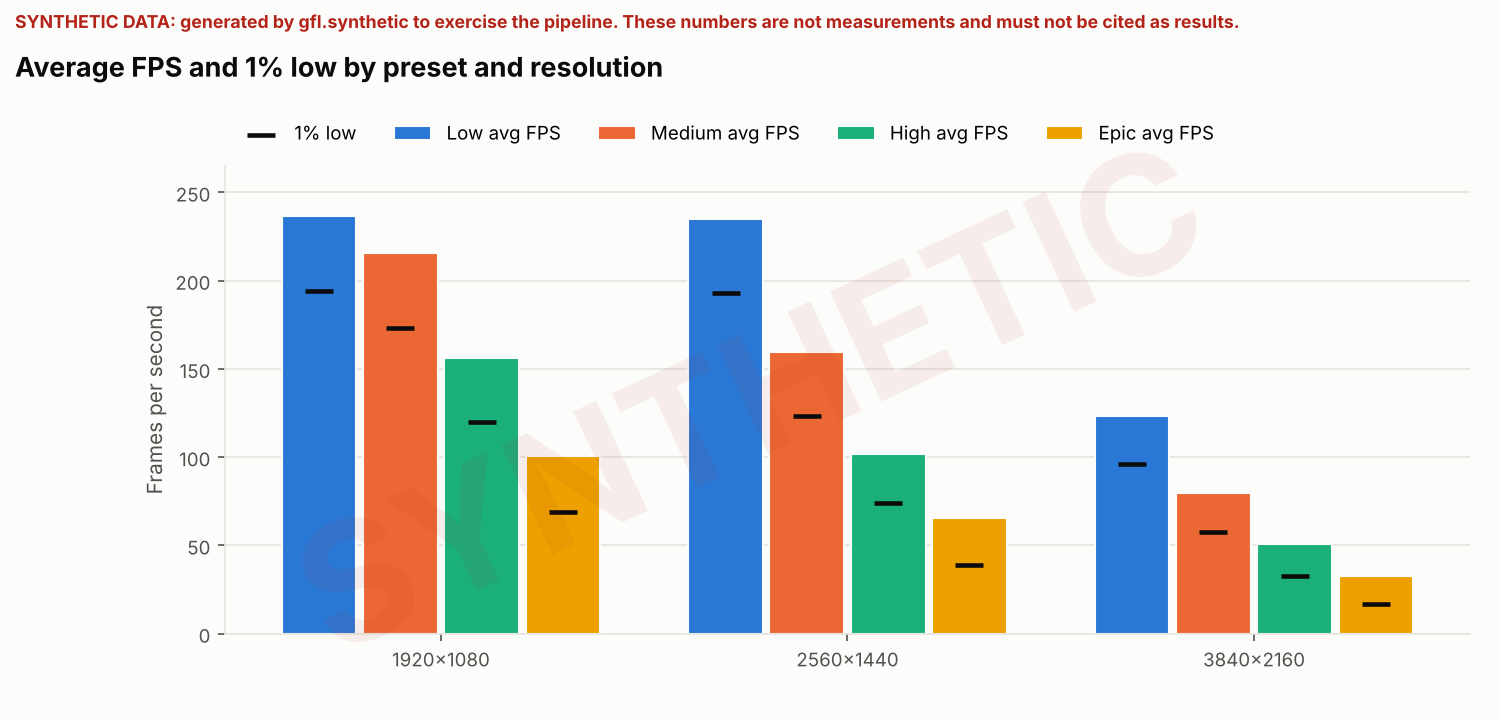
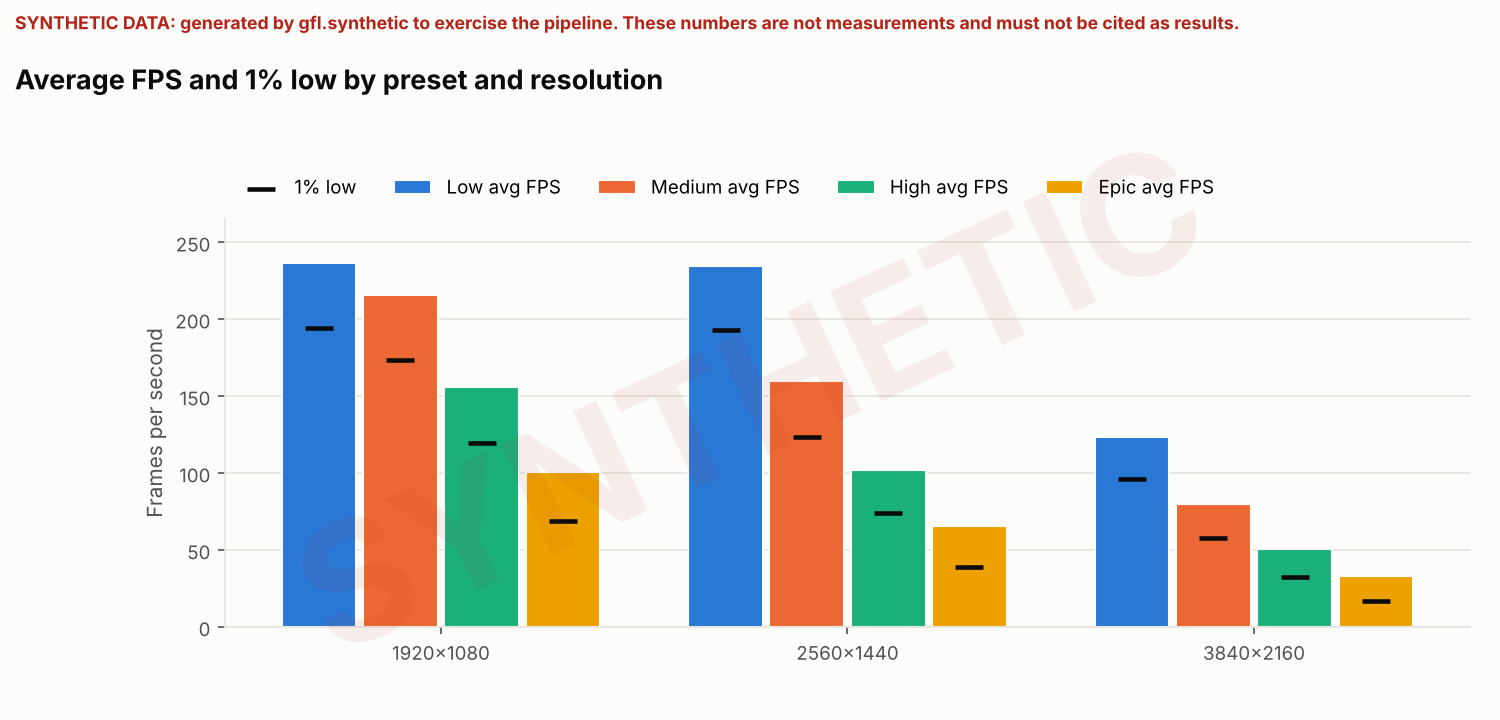
Add gflbench log parser and GPU-time-by-pass analysis and chart
Charts now use margins fixed in inches so short and tall figures lay out
the same way.

Claude-Session: https://claude.ai/code/session_01LpnvNtyLDWCQJDicQHDD6d

diff --git a/gfl/analyze.py b/gfl/analyze.py
@@ -11,7 +11,7 @@ from gfl import manifest as mf
 from gfl import plots
 from gfl.config import PRESET_LEVELS, Resolution
 from gfl.metrics import compute_run_metrics, summarize_runs, trim_window
-from gfl.parse import load_gpu_telemetry_csv, load_presentmon_csv
+from gfl.parse import load_gflbench_csv, load_gpu_telemetry_csv, load_presentmon_csv
 from gfl.tables import markdown_table
 
 CONFIG_KEYS = [
@@ -45,16 +45,35 @@ def default_out_dir(manifest: pd.DataFrame) -> Path:
     return Path("results") / ("synthetic" if synthetic else "") / experiment
 
 
-def load_run_frames(run_dir: Path, row: pd.Series) -> tuple[pd.DataFrame, pd.DataFrame | None]:
-    """Parse and trim one run's PresentMon log and (optional) telemetry log."""
-    frames = load_presentmon_csv(mf.resolve(run_dir, row["presentmon_csv"]))
-    frames = trim_window(frames, row["warmup_s"], row["duration_s"])
+@dataclass
+class RunData:
+    frames: pd.DataFrame                  # trimmed canonical frame table
+    telemetry: pd.DataFrame | None        # trimmed memory / utilization samples
+    passes: pd.DataFrame | None           # trimmed per-pass GPU ms (gflbench only)
 
+
+def load_run(run_dir: Path, row: pd.Series) -> RunData:
+    """Parse one run's logs and trim them all to the same measured window."""
+    window = (row["warmup_s"], row["duration_s"])
+    frames_path = mf.resolve(run_dir, row["frames_csv"])
+    if row["capture_tool"] == "gflbench":
+        log = load_gflbench_csv(frames_path)
+        return RunData(trim_window(log.frames, *window),
+                       trim_window(log.memory, *window) if not log.memory.empty else None,
+                       trim_window(log.passes, *window))
+
+    frames = trim_window(load_presentmon_csv(frames_path), *window)
     telemetry = None
     tel_path = mf.resolve(run_dir, row["telemetry_csv"])
     if tel_path is not None:
-        telemetry = trim_window(load_gpu_telemetry_csv(tel_path), row["warmup_s"], row["duration_s"])
-    return frames, telemetry
+        telemetry = trim_window(load_gpu_telemetry_csv(tel_path), *window)
+    return RunData(frames, telemetry, None)
+
+
+def pass_means(passes: pd.DataFrame) -> dict[str, float]:
+    """Mean GPU ms per frame for each render pass: where the GPU time goes."""
+    return {f"pass_{name}_ms": float(passes[name].mean())
+            for name in passes.columns if name != "time_s"}
 
 
 def analyze(run_dir: str | Path, out_dir: str | Path | None = None,
@@ -71,19 +90,23 @@ def analyze(run_dir: str | Path, out_dir: str | Path | None = None,
     # 1. Per-run metrics. Keep run 1's trimmed frames for the trace chart.
     per_run_rows, traces = [], {}
     for _, row in manifest.iterrows():
-        frames, telemetry = load_run_frames(run_dir, row)
-        metrics = compute_run_metrics(frames, telemetry)
-        per_run_rows.append({**row[CONFIG_KEYS + ["run_id", "run_index"]].to_dict(),
-                             **metrics.as_dict()})
+        data = load_run(run_dir, row)
+        metrics = compute_run_metrics(data.frames, data.telemetry)
+        per_run_rows.append({**row[CONFIG_KEYS + ["run_id", "run_index", "capture_tool"]].to_dict(),
+                             **metrics.as_dict(),
+                             **(pass_means(data.passes) if data.passes is not None else {})})
         if row["run_index"] == 1:
-            traces[row["config_id"]] = frames
+            traces[row["config_id"]] = data.frames
     per_run = _sort_configs(pd.DataFrame(per_run_rows))
     per_run["data_kind"] = data_kind
 
     # 2. One summary row per config (mean across runs + run-to-run spread).
+    pass_cols = [c for c in per_run.columns if c.startswith("pass_") and c.endswith("_ms")]
     summary_rows = []
     for _, group in per_run.groupby("config_id", sort=False):
-        summary_rows.append({**group.iloc[0][CONFIG_KEYS].to_dict(), **summarize_runs(group)})
+        summary_rows.append({**group.iloc[0][CONFIG_KEYS + ["capture_tool"]].to_dict(),
+                             **summarize_runs(group),
+                             **{c: float(group[c].mean()) for c in pass_cols}})
     summary = _sort_configs(pd.DataFrame(summary_rows))
     summary["data_kind"] = data_kind
 
@@ -116,6 +139,12 @@ def analyze(run_dir: str | Path, out_dir: str | Path | None = None,
         path=out_dir / f"{prefix}fps_by_preset_and_resolution.png",
         banner=banner,
     ))
+    if pass_cols:
+        result.outputs.append(plots.gpu_time_by_pass(
+            summary, pass_cols,
+            path=out_dir / f"{prefix}gpu_time_by_pass.png",
+            banner=banner,
+        ))
     return result
 
 
@@ -141,6 +170,10 @@ def summary_display_table(summary: pd.DataFrame) -> pd.DataFrame:
         table[col] = table[col].map(lambda v, d=digits: "n/a" if pd.isna(v) else f"{v:.{d}f}")
     flagged = summary["low_01pct_low_confidence"].to_numpy()
     table.loc[flagged, "0.1% low"] = table.loc[flagged, "0.1% low"] + "*"
+    if (summary["capture_tool"] == "gflbench").all():
+        # On Apple silicon the memory number is the benchmark's Metal allocation
+        # in unified memory, not device-wide VRAM. Label it for what it is.
+        table = table.rename(columns={"VRAM peak MiB": "Metal mem peak MiB"})
     return table
 
 

diff --git a/gfl/parse.py b/gfl/parse.py
@@ -23,6 +23,7 @@ DLSS phase.
 from __future__ import annotations
 
 import re
+from dataclasses import dataclass
 from pathlib import Path
 
 import numpy as np
@@ -161,6 +162,75 @@ def load_gpu_telemetry_csv(path: str | Path) -> pd.DataFrame:
         }
     )
     return telemetry.dropna(subset=["vram_used_mib"]).sort_values("time_s").reset_index(drop=True)
+
+
+# --------------------------------------------------------------------------- #
+# gflbench (the Metal benchmark renderer in bench/metal, macOS)
+# --------------------------------------------------------------------------- #
+
+# gflbench writes PresentMon's column names for the shared metrics, so the same
+# definitions apply: CPUStartTime (seconds since the run started),
+# MsBetweenPresents (interval between present calls), MsGPUBusy (sum of the
+# frame's pass GPU times), MsGPUTime (first pass start to last pass end). It
+# adds one MsPass_<name> column per render pass and MetalAllocatedMiB, the
+# Metal memory the benchmark process has allocated (Apple silicon has unified
+# memory, so there is no separate device-wide VRAM number).
+GFLBENCH_PASS_PREFIX = "MsPass_"
+
+
+@dataclass
+class GflbenchLog:
+    frames: pd.DataFrame  # canonical frame table (FRAME_COLUMNS)
+    passes: pd.DataFrame  # time_s plus one column of GPU ms per pass
+    memory: pd.DataFrame  # same layout as load_gpu_telemetry_csv (TELEMETRY_COLUMNS)
+
+    @property
+    def pass_names(self) -> list[str]:
+        return [c for c in self.passes.columns if c != "time_s"]
+
+
+def load_gflbench_csv(path: str | Path) -> GflbenchLog:
+    raw = _read_csv(path)
+    cols = _resolve_columns(raw, _PRESENTMON_ALIASES, path, required=("time", "frametime"))
+    pass_cols = [c for c in raw.columns if c.startswith(GFLBENCH_PASS_PREFIX)]
+    if not pass_cols:
+        raise ParseError(f"{path}: no {GFLBENCH_PASS_PREFIX}* columns; is this a gflbench log?")
+    pass_names = [c[len(GFLBENCH_PASS_PREFIX):] for c in pass_cols]
+
+    combined = pd.DataFrame(
+        {
+            "time_s": pd.to_numeric(raw[cols["time"]], errors="coerce"),
+            "frametime_ms": pd.to_numeric(raw[cols["frametime"]], errors="coerce"),
+            "gpu_busy_ms": _optional(raw, cols.get("gpu_busy")),
+            "gpu_time_ms": _optional(raw, cols.get("gpu_time")),
+            "cpu_busy_ms": _optional(raw, cols.get("cpu_busy")),
+            "gpu_util_pct": np.nan,
+            "vram_used_mib": _optional(raw, "MetalAllocatedMiB" if "MetalAllocatedMiB" in raw else None),
+            **{name: pd.to_numeric(raw[col], errors="coerce") for name, col in zip(pass_names, pass_cols)},
+        }
+    )
+    # Same cleaning as the other parsers, applied once so the three tables stay
+    # row-aligned (the first frame has no previous present, so no frame time).
+    combined = combined.dropna(subset=["time_s", "frametime_ms"])
+    combined = combined[combined["frametime_ms"] > 0]
+    if combined.empty:
+        raise ParseError(f"{path}: no valid frames")
+    combined = _rebase(combined.sort_values("time_s").reset_index(drop=True))
+    memory = combined[["time_s", "vram_used_mib", "gpu_util_pct"]].dropna(subset=["vram_used_mib"])
+    return GflbenchLog(
+        frames=combined[FRAME_COLUMNS].copy(),
+        passes=combined[["time_s", *pass_names]].copy(),
+        memory=memory.reset_index(drop=True),
+    )
+
+
+def load_frames(path: str | Path, capture_tool: str) -> pd.DataFrame:
+    """Canonical frame table from any supported per-frame log."""
+    if capture_tool == "presentmon":
+        return load_presentmon_csv(path)
+    if capture_tool == "gflbench":
+        return load_gflbench_csv(path).frames
+    raise ParseError(f"unknown capture tool {capture_tool!r}")
 
 
 # --------------------------------------------------------------------------- #

diff --git a/gfl/plots.py b/gfl/plots.py
@@ -54,16 +54,20 @@ def _figure(nrows: int = 1, height: float = 4.5, **kwargs):
 
 
 def _finish(fig: plt.Figure, title: str, path: Path, banner: str | None) -> Path:
-    # Fixed vertical stack (figure fractions): banner, title, legend row, plot.
-    title_y = 0.93 if banner else 0.975
-    fig.suptitle(title, x=0.01, y=title_y, ha="left", va="top", fontsize=13, color=TEXT,
-                 weight="bold")
+    # Fixed vertical stack in inches (banner, title, legend row, plot, x label),
+    # so the layout holds for any figure height.
+    h = fig.get_figheight()
+    banner_in = 0.32 if banner else 0.0
+    title_top_in = 0.1 + banner_in
+    plot_top_in = title_top_in + 0.42 + 0.62  # title, then a legend row (with title)
+    fig.suptitle(title, x=0.01, y=1 - title_top_in / h, ha="left", va="top", fontsize=13,
+                 color=TEXT, weight="bold")
     if banner:
-        fig.text(0.01, 0.985, banner, ha="left", va="top", fontsize=8.5, color=BANNER,
+        fig.text(0.01, 1 - 0.08 / h, banner, ha="left", va="top", fontsize=8.5, color=BANNER,
                  weight="bold")
         fig.text(0.5, 0.45, "SYNTHETIC", ha="center", va="center", rotation=25,
                  fontsize=80, color=BANNER, alpha=0.07, weight="bold")
-    fig.subplots_adjust(left=0.15, right=0.98, bottom=0.12, top=title_y - 0.16)
+    fig.subplots_adjust(left=0.15, right=0.98, bottom=0.62 / h, top=1 - plot_top_in / h)
     path.parent.mkdir(parents=True, exist_ok=True)
     fig.savefig(path, dpi=150, facecolor=SURFACE)
     plt.close(fig)
@@ -122,3 +126,37 @@ def fps_by_config(summary: pd.DataFrame, path: Path, banner: str | None = None) 
     ax.legend(frameon=False, ncols=len(presets) + 1, loc="lower left",
               bbox_to_anchor=(0, 1.01), fontsize=9)
     return _finish(fig, "Average FPS and 1% low by preset and resolution", path, banner)
+
+
+# Render passes get their own fixed colors (categorical slots 5 to 8), so they
+# never look like presets, which use slots 1 to 4.
+PASS_COLORS = ["#e87ba4", "#008300", "#6250d6", "#e34948"]
+
+
+def gpu_time_by_pass(summary: pd.DataFrame, pass_cols: list[str], path: Path,
+                     banner: str | None = None) -> Path:
+    """Mean GPU ms per frame, split by render pass, one bar per config.
+
+    This is the "where does the GPU time go" view: the analog of a GPU trace's
+    per-pass breakdown, from timestamps the renderer records itself.
+    """
+    rows = summary.iloc[::-1]  # first config at the top
+    labels = [f"{p.capitalize()} {r}" for p, r in zip(rows["preset"], rows["resolution"])]
+    fig, (ax,) = _figure(height=max(4.0, 0.45 * len(rows) + 2.6))
+    _style(ax)
+    ax.grid(axis="y", visible=False)
+    ax.grid(axis="x", color=GRID, linewidth=0.8)
+    left = np.zeros(len(rows))
+    for col, color in zip(pass_cols, PASS_COLORS):
+        values = rows[col].to_numpy()
+        name = col.removeprefix("pass_").removesuffix("_ms")
+        ax.barh(labels, values, left=left, color=color, height=0.62, label=name,
+                edgecolor=SURFACE, linewidth=1)
+        left += values
+    for y, total in enumerate(left):
+        ax.text(total, y, f"  {total:.1f} ms", va="center", fontsize=8.5, color=TEXT_SECONDARY)
+    ax.set_xlim(0, left.max() * 1.15)
+    ax.set_xlabel("Mean GPU time per frame (ms)", color=TEXT_SECONDARY)
+    ax.legend(title="Render pass", frameon=False, ncols=len(pass_cols), loc="lower left",
+              bbox_to_anchor=(0, 1.01), fontsize=9, title_fontsize=9, alignment="left")
+    return _finish(fig, "Where the GPU time goes, by render pass", path, banner)

diff --git a/results/synthetic/metal_scalability/SYNTHETIC_summary.md b/results/synthetic/metal_scalability/SYNTHETIC_summary.md
@@ -1,0 +1,14 @@
+> **SYNTHETIC DATA: generated by gfl.synthetic to exercise the pipeline. These numbers are not measurements and must not be cited as results.**
+
+# Benchmark summary
+
+Mean of per-run metrics after dropping the warmup window. Run CV % is the run-to-run coefficient of variation of average FPS.
+
+| Preset | Resolution | Avg FPS | Run CV % | 1% low | 0.1% low | p99 ms | Stutters/min | GPU busy % | Metal mem peak MiB |
+| ------ | ---------- | ------: | -------: | -----: | -------: | -----: | -----------: | ---------: | -----------------: |
+| low    | 2560x1440  |   200.1 |     0.94 |  179.3 |    154.0 |   5.42 |          1.6 |       98.0 |                393 |
+| medium | 2560x1440  |   106.7 |     0.85 |   93.4 |     74.6 |  10.20 |          2.4 |       98.9 |                433 |
+| high   | 2560x1440  |    61.6 |     0.52 |   51.9 |    35.6* |  17.73 |          2.0 |       99.3 |                473 |
+| epic   | 2560x1440  |    37.1 |     0.56 |   27.3 |    13.6* |  29.34 |          4.0 |       99.3 |                513 |
+
+\* 0.1% low rests on fewer than 5 frames per run; treat it as indicative.
